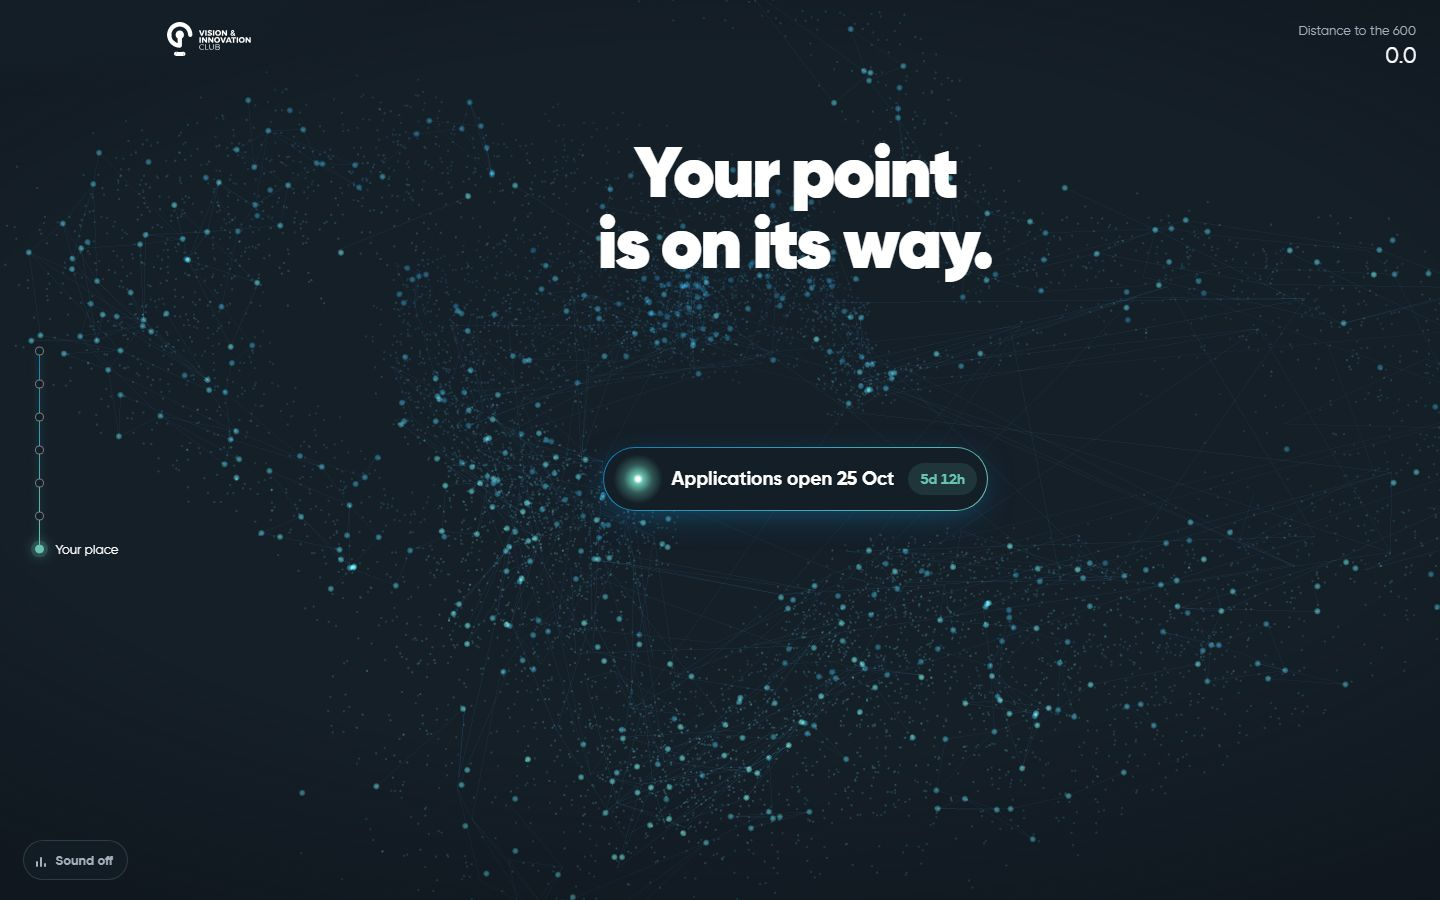
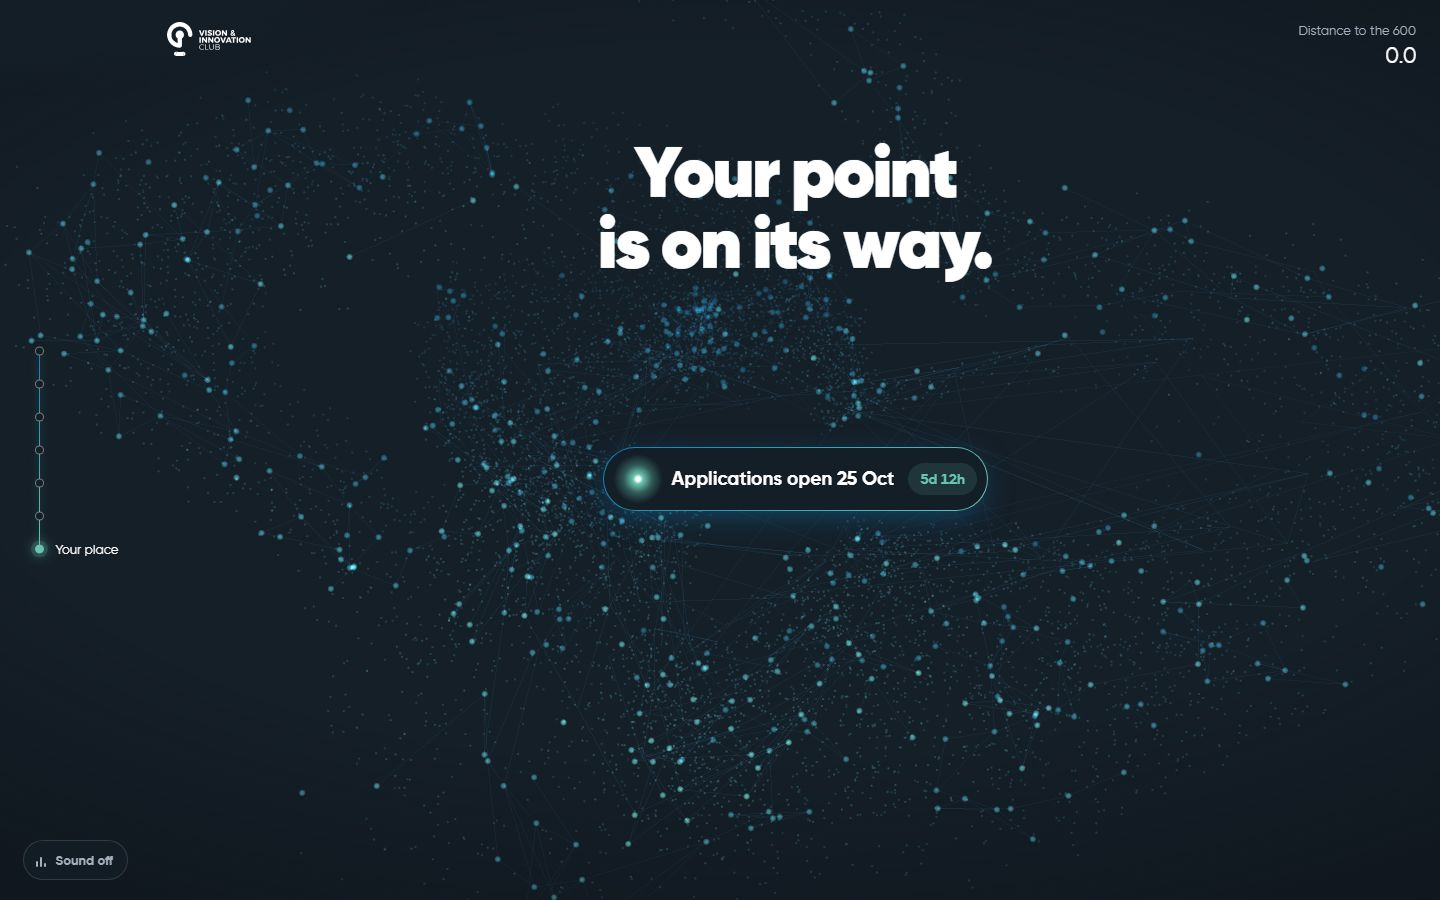
Prototype #17: smaller, tighter clearing around Apply, reshoot

diff --git a/prototype/act-close/index.html b/prototype/act-close/index.html
@@ -259,7 +259,7 @@ function measure(){
   const r = pillEl.getBoundingClientRect(), s = pillEl.querySelector('.slot').getBoundingClientRect();
   const dy = qs.has('p') || tier0 || reduce ? 0 : 0;
   G.px = r.left + r.width / 2; G.py = r.top + r.height / 2; G.sx = s.left + s.width / 2; G.sy = s.top + s.height / 2;
-  G.rx = r.width / 2 + (phone ? 20 : 70); G.ry = r.height / 2 + (phone ? 44 : 52);
+  G.rx = r.width / 2 + (phone ? 10 : 36); G.ry = r.height / 2 + (phone ? 24 : 30);
 }
 
 function poster(){
